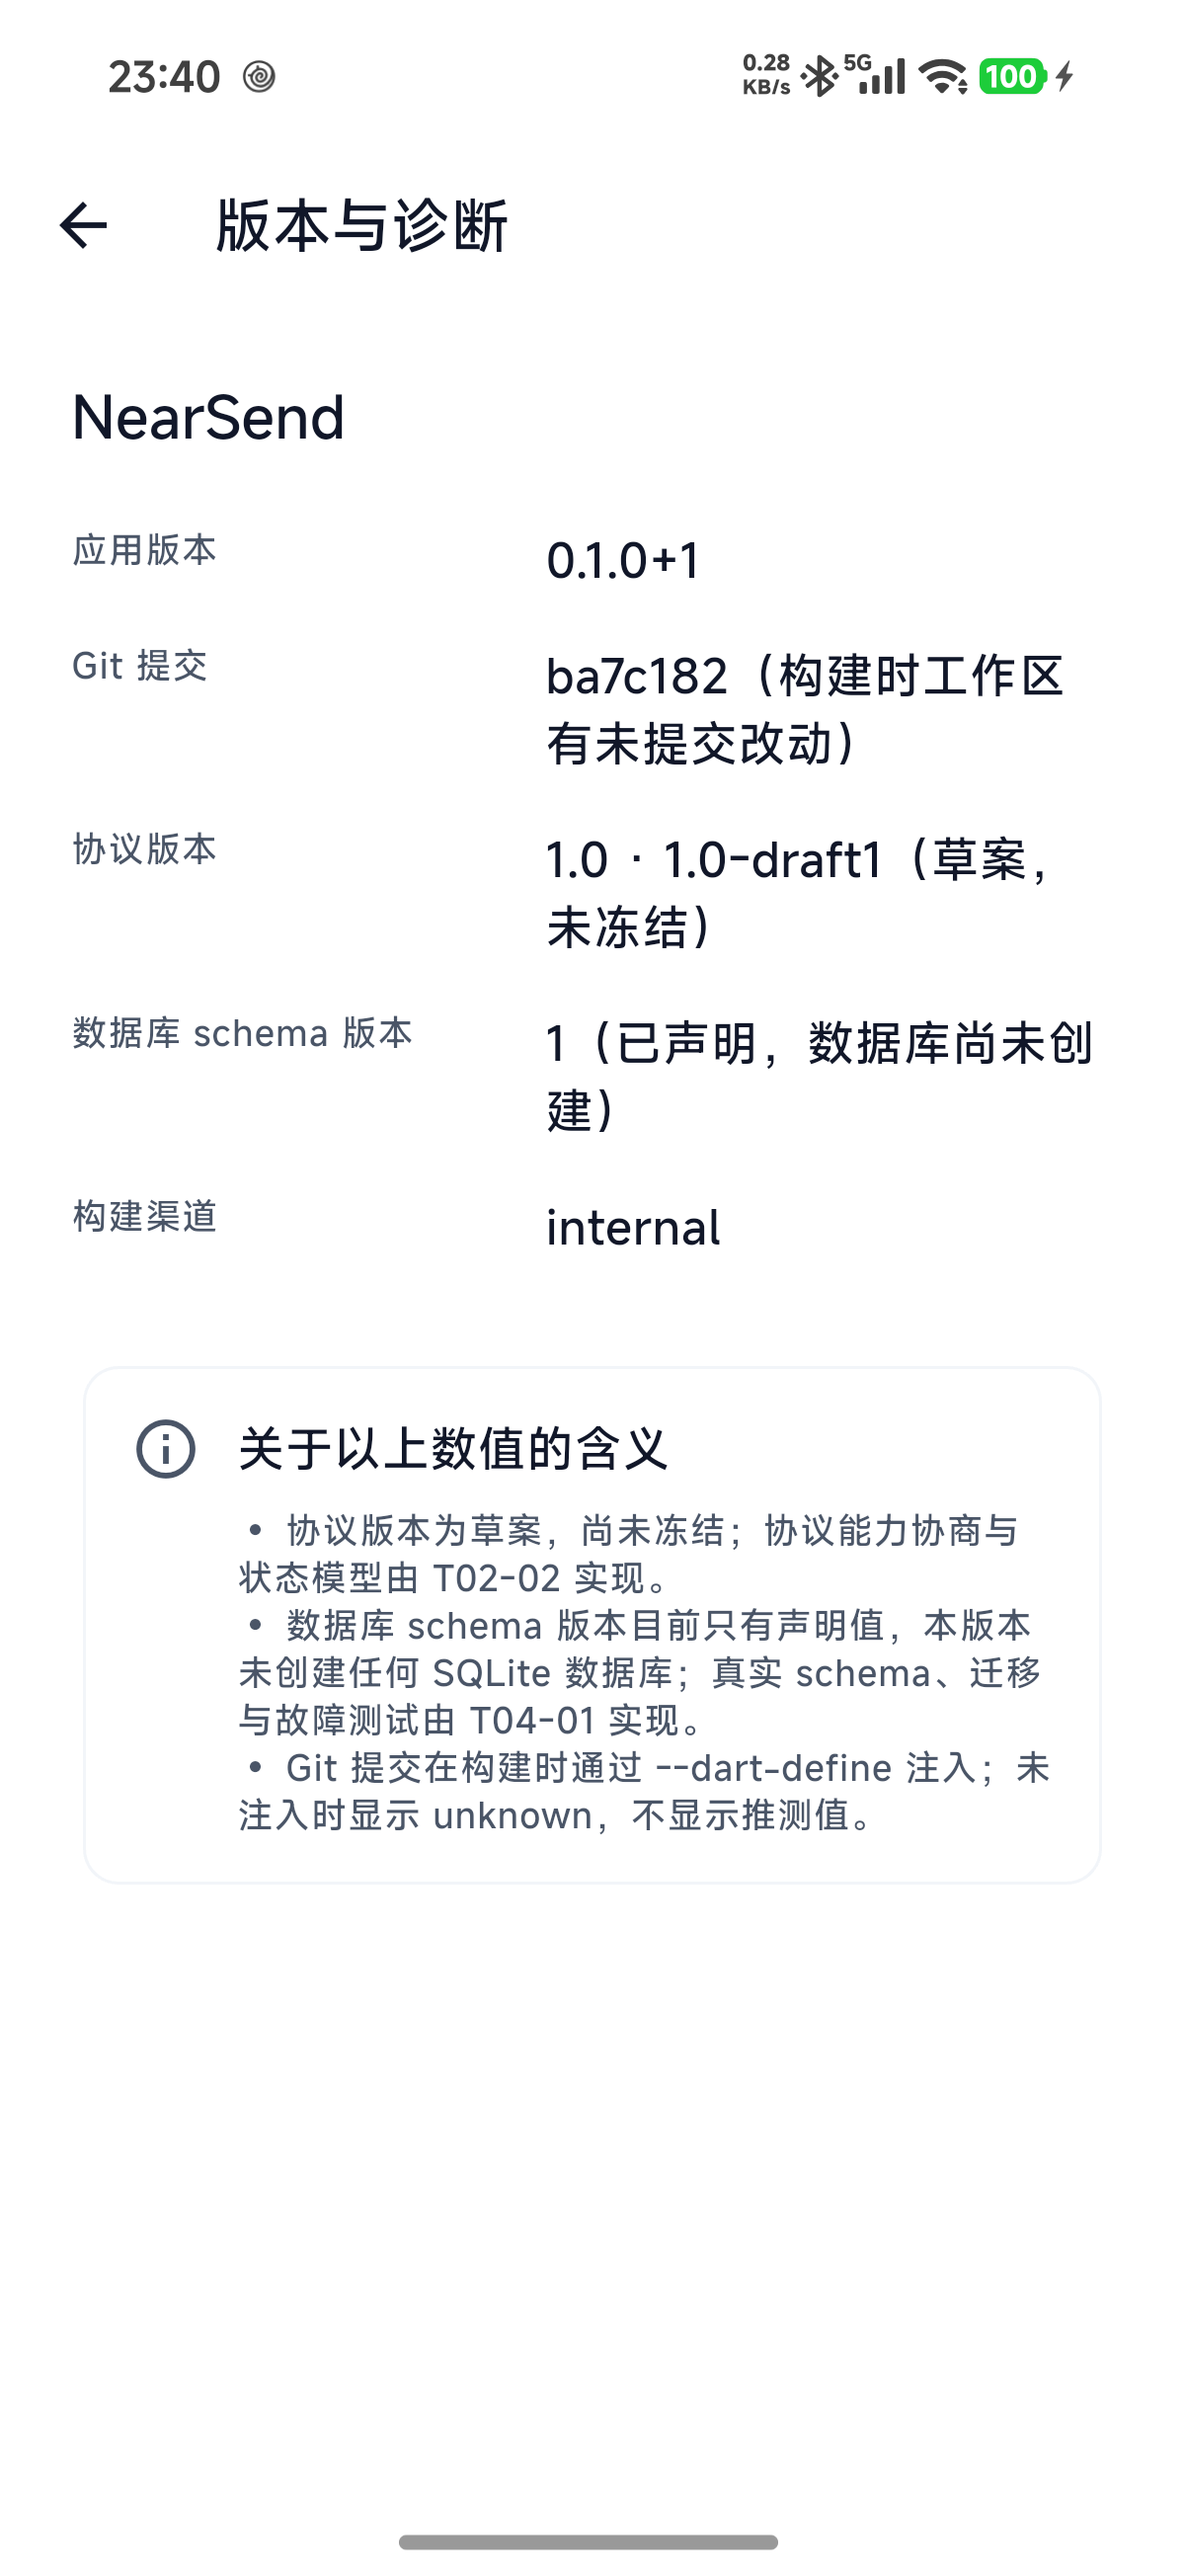
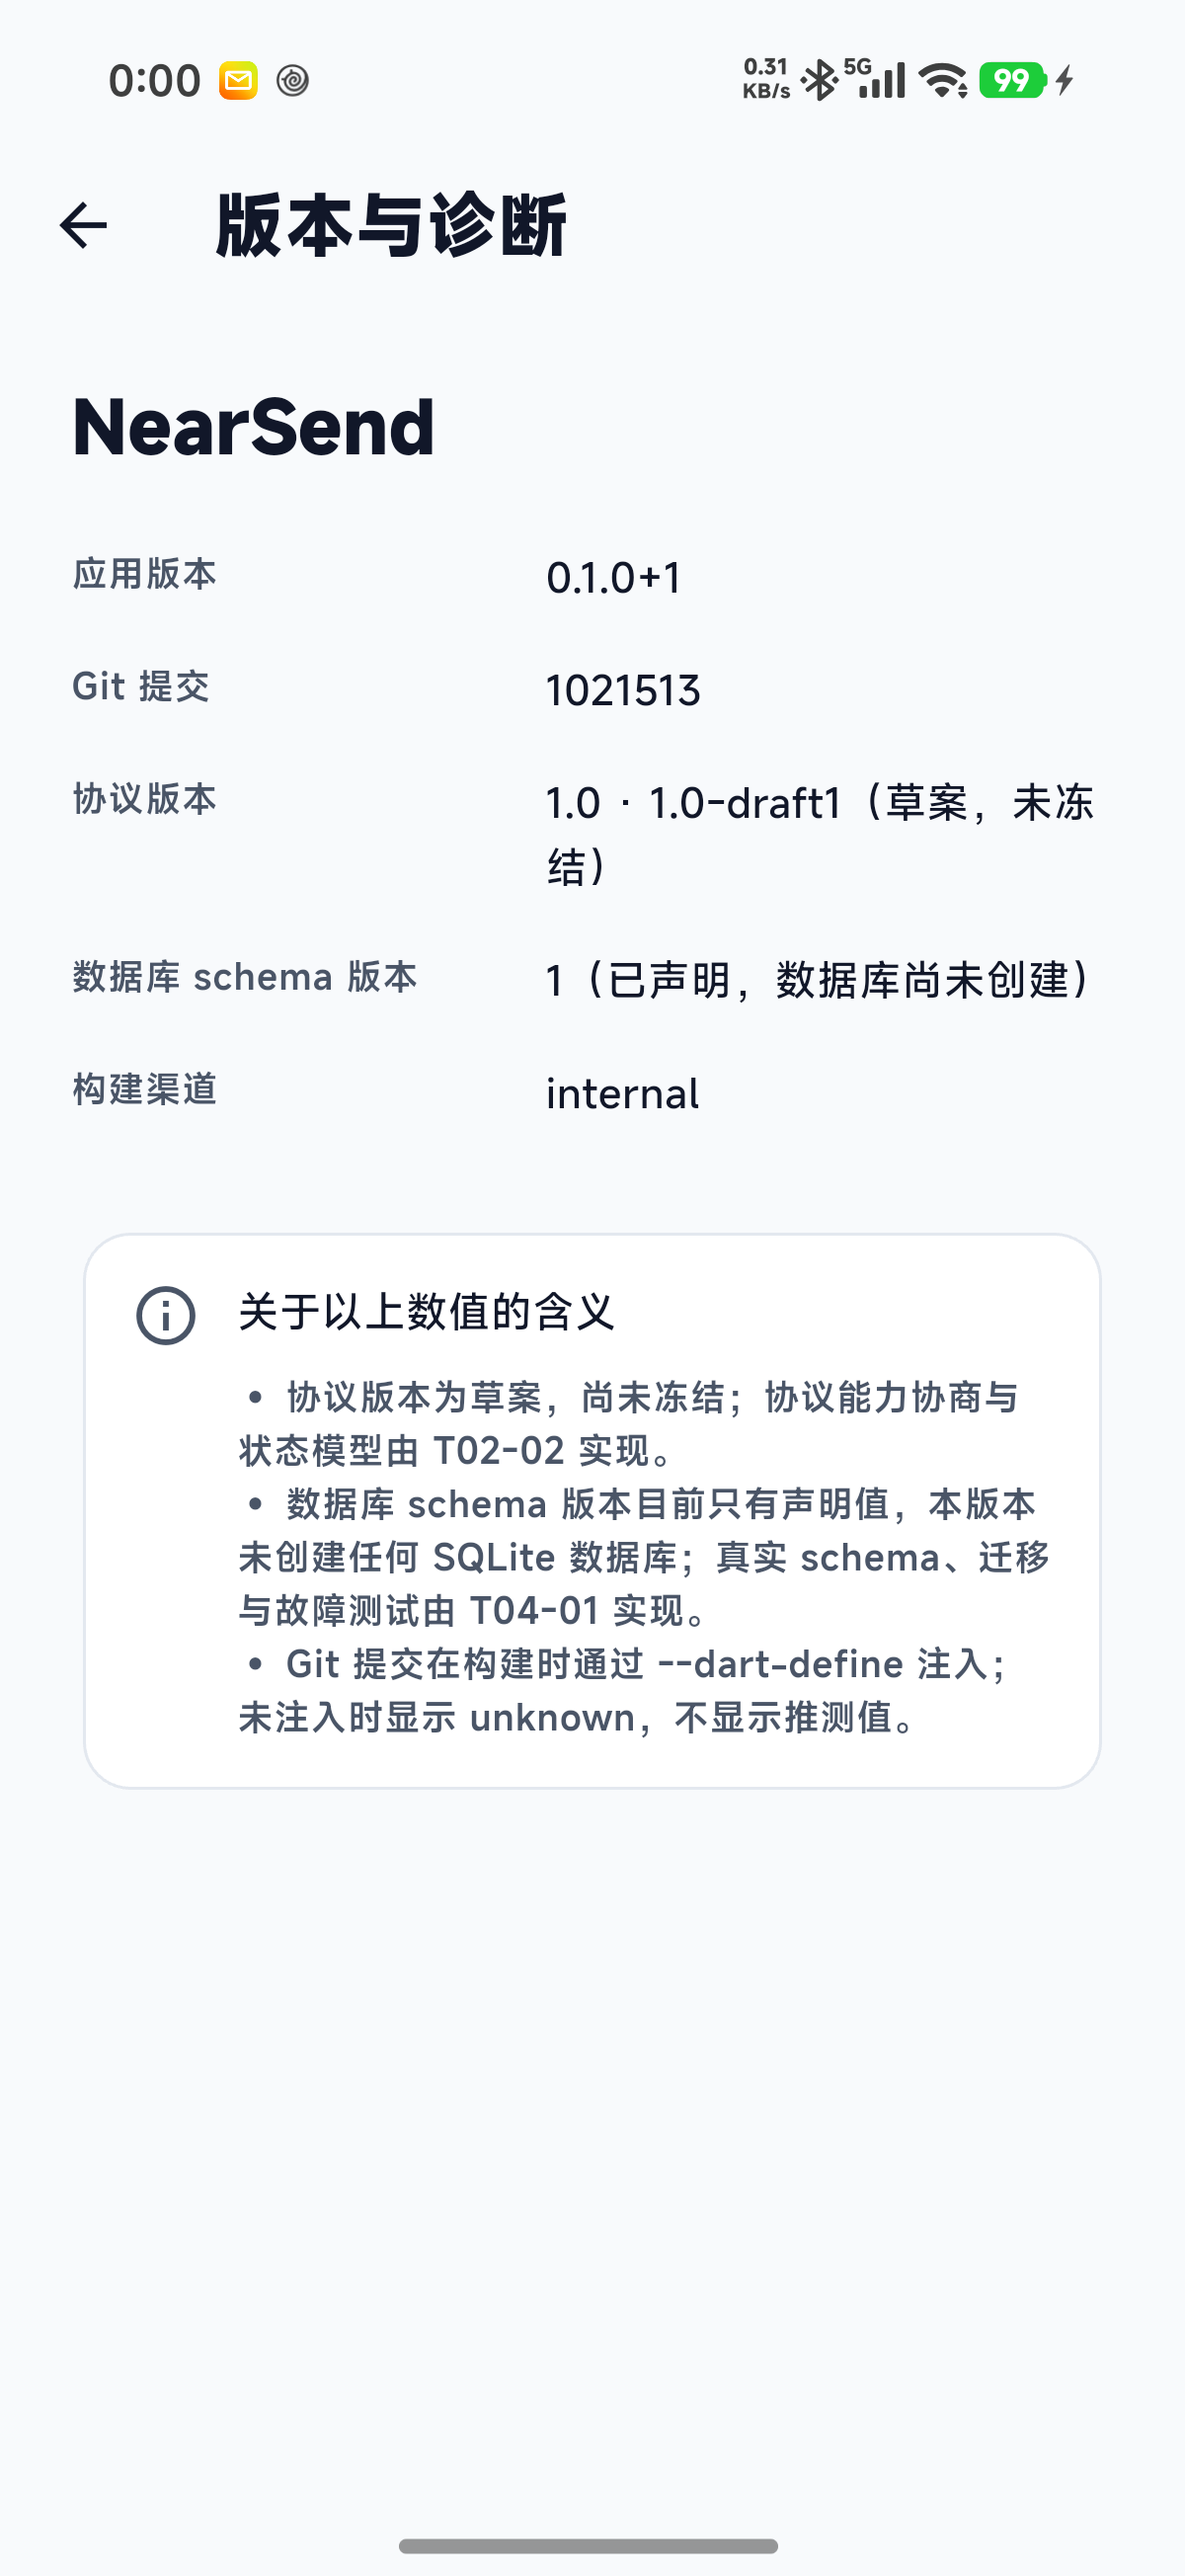
docs(evidence): refresh T01-01 evidence for the merged UI baseline
Re-records the run after merging origin/master: artifacts are now stamped with a clean
revision and gitDirty=false, the on-device Git commit reads 1021513 with no uncommitted
suffix, Flutter tests are 36, and the Android and Windows screenshots show the UI
Baseline 1.0 tokens (tinted canvas, 16dp card radius, 1dp border).

The Android About page and Windows About page were both re-captured after the token
change so that no screenshot in this run shows the superseded styling.

diff --git a/docs/testing/evidence/2026-09-20/t01-01-01/summary.md b/docs/testing/evidence/2026-09-20/t01-01-01/summary.md
@@ -4,50 +4,63 @@
 - 任务：[T01-01 Flutter 工程基线](../../../../tasks/T01-01.md)
 - 日期：2026-09-20
 - 基线提交：`ba7c1825043d4e830daf0b62d05789438f8139d0`
-- 分支：`feat/t01-01-flutter-baseline`
+- 构建提交：`10215137453b5be41cf61a286623b63f0a3833f4`（`gitDirty=false`）
+- 分支 / PR：`feat/t01-01-flutter-baseline` → [#4](https://github.com/yanzhao77/NearSend/pull/4)
 - 主机：Windows 10 22H2 (10.0.19045.6466)
 - **结论：在下列具体环境与设备上，T01-01 的自动化门槛与两端真机/实机验证全部通过。**
 
 > 本文件只陈述本次实际执行并留证的结果。它不代表传输、配对、发现、存储、恢复等业务能力，
 > 那些能力在本次改动中**并未实现**。
+>
+> 本任务执行期间 `origin/master` 前移（PR #3 合并了 UI Baseline 1.0）。分支已并入新基线、
+> 解决冲突并**完整重跑**全部检查与两端构建；下表的产物与摘要均来自并入后的干净提交。
+>
+> 早期一轮（`a076b67`、`gitDirty=true`）的构建日志仍保留在
+> `build-android-*.log` / `build-windows-release.log` 的历史内容之外未被覆盖为结论，
+> 最终结论以下表的干净提交产物为准。
 
 ## 1. 验收条件逐项核对
 
 | 验收条件 | 结果 | 证据 |
 | --- | --- | --- |
-| Android 构建成功 | 通过 | `build-android-debug.log`、`build-android-release.log`；debug 150,506,612 B、release 44,939,724 B |
+| Android 构建成功 | 通过 | `build-android-debug.log`、`build-android-release.log`；debug 165,485,078 B、release 44,939,724 B |
 | Windows 构建成功 | 通过 | `build-windows-release.log`；`nearsend.exe` 90,624 B |
 | Android 可安装并启动 | 通过 | [android-run.md](android-run.md)；Xiaomi 25102RKBEC / Android 17 (API 37) |
 | Windows 可运行 | 通过 | [windows-run.md](windows-run.md)；窗口标题 `NearSend` |
 | 两端显示版本、Git commit、协议版本、schema 版本 | 通过 | `android-ui-about.xml`、`windows-about.png` |
 | 没有业务逻辑放入平台目录 | 通过 | [platform-directory-audit.md](platform-directory-audit.md) |
-| `dart format` / `flutter analyze` / `flutter test` 通过 | 通过 | `check-script.log`；analyze `No issues found`；test 29/29 |
+| `dart format` / `flutter analyze` / `flutter test` 通过 | 通过 | `check-script.log`；analyze `No issues found`；test 36/36 |
 | `pubspec.lock` 进入版本控制 | 通过 | `.gitignore` 增加 `!pubspec.lock`；`git check-ignore -q` 退出码 1 |
 
 ## 2. 产物与摘要（`artifacts-sha256.json`）
 
+构建提交 `10215137453b5be41cf61a286623b63f0a3833f4`，`gitDirty=false`：
+
 | 产物 | 模式 | 字节 | SHA-256 |
 | --- | --- | --- | --- |
[5 lines of base64/hex data omitted]
 
-三者都由同一次构建流程注入 `NS_GIT_SHA=ba7c182…`、`NS_GIT_DIRTY=true`、`NS_BUILD_CHANNEL`，
-因此可以回溯到确切的源码提交（技术方案 §17.3）。
+三者都由同一次构建流程注入 `NS_GIT_SHA=1021513…`、`NS_GIT_DIRTY=false`、`NS_BUILD_CHANNEL`，
+因此可以回溯到确切的源码提交（技术方案 §17.3）。真机版本信息页显示的 Git 提交为 `1021513`，
+与该提交一致且**没有「未提交改动」后缀**。
 
 ## 3. 自动化检查
 
 ```text
 dart format --output=none --set-exit-if-changed .   → 通过（无改动）
 flutter analyze                                     → No issues found!
-flutter test                                        → 29 个测试全部通过
+flutter test                                        → 36 个测试全部通过
 tooling/s0: python -m unittest -v test_probes       → 24 个测试全部通过
 ```
 
 测试内容覆盖：`pubspec.yaml` 与 `kAppVersion` 一致性、协议/schema 常量与「未冻结/未创建」诚实标注、
-Git SHA 不伪造、`UI_UX_SPEC` §5 色彩与间距/圆角/字号/动效 Token 逐值一致、
-六组前景/背景组合达到 WCAG AA 对比度、按钮主题满足 48dp 触控目标、
-减少动效偏好生效、首页主操作禁用且标注未实现、版本信息页四类信息渲染。
+Git SHA 不伪造、**UI Baseline 1.0 的 17 个颜色 Token**、`canvas` 与 `card` 必须可区分、
+七级排版比例逐值一致、间距阶梯（4–64）、圆角（16/12/12/999）、尺寸与栅格、
+**13 组前景/背景组合达到 WCAG AA 对比度**（含画布/卡片两种背景与语义色在其 soft 背景上）、
+卡片 1dp 边框与零阴影、按钮 48dp 高度、减少动效偏好生效、
+首页主操作禁用且标注未实现、版本信息页四类信息渲染。
 
 ## 4. 环境搭建记录（本次新增，仓库外）
 

diff --git a/docs/testing/evidence/2026-09-20/t01-01-01/android-run.md b/docs/testing/evidence/2026-09-20/t01-01-01/android-run.md
@@ -18,8 +18,8 @@
 | 连接方式 | USB（adb serial `25102RKBEC`，adb id `478ef8a9`） |
 | 构建主机 | Windows 10 22H2 (10.0.19045.6466) |
 | 构建工具 | Flutter 3.47.5 / Dart 3.13.4 / JDK 21.0.2 / Android SDK platform-36 + build-tools 36.0.0 + NDK 28.2.13676358 |
[1 lines of base64/hex data omitted]
-| 构建提交 | `ba7c1825043d4e830daf0b62d05789438f8139d0`（构建时工作区有未提交改动） |
+| 构建提交 | `10215137453b5be41cf61a286623b63f0a3833f4`（`gitDirty=false`） |
[1 lines of base64/hex data omitted]
 
 ## 2. 操作步骤与结果
 
@@ -58,7 +58,7 @@ NearSend
 版本与诊断
 NearSend
 应用版本          0.1.0+1
-Git 提交          ba7c182（构建时工作区有未提交改动）
+Git 提交          1021513
 协议版本          1.0 · 1.0-draft1（草案，未冻结）
 数据库 schema 版本  1（已声明，数据库尚未创建）
 构建渠道          internal
@@ -69,7 +69,17 @@ Git 提交          ba7c182（构建时工作区有未提交改动）
 ```
 
 这证明 T01-01 的验收项「应用能显示版本、Git commit、协议版本和数据库 schema 版本」
-在**真实 Android 设备**上成立，且 Git 提交确实由构建期注入、与构建提交一致。
+在**真实 Android 设备**上成立，且 Git 提交确实由构建期注入、与构建提交 `1021513` 一致。
+
+`Git 提交` 一行**没有**「构建时工作区有未提交改动」后缀，说明该产物可回溯到干净的提交，
+而不是在工作区带改动的情况下构建的。
+
+## 4.1 UI Baseline 1.0 并入后的复验
+
+`docs/ui/STYLE_GUIDE.md`（UI Baseline 1.0）并入 `master` 后，设计 Token 被重写
+（卡片圆角 12→16、按钮圆角 10→12、新增独立画布色等）。改动后已重新构建、重新安装并再次采集：
+`android-home.png`、`android-about.png`、`android-ui-*.xml` 均为**并入 UI Baseline 1.0 之后**的产物。
+截图中可直接观察到页面使用带色调的画布背景，卡片为 16dp 圆角并带 1dp 边框，而不是纯白页面。
 
 ## 5. 已知限制
 

diff --git a/docs/testing/evidence/2026-09-20/t01-01-01/windows-run.md b/docs/testing/evidence/2026-09-20/t01-01-01/windows-run.md
@@ -14,7 +14,7 @@
 | 工具链 | Flutter 3.47.5 / Dart 3.13.4 |
 | 原生工具链 | Visual Studio Community 2022 17.14.37614.0（含 VC++ x86/x64 工具集），Windows 10 SDK 10.0.26100.0 |
[1 lines of base64/hex data omitted]
-| 构建提交 | `ba7c1825043d4e830daf0b62d05789438f8139d0`（构建时工作区有未提交改动） |
+| 构建提交 | `10215137453b5be41cf61a286623b63f0a3833f4`（`gitDirty=false`） |
 
 `Release` 目录组成（应用需要与 DLL、`data/` 同目录运行）：
 
